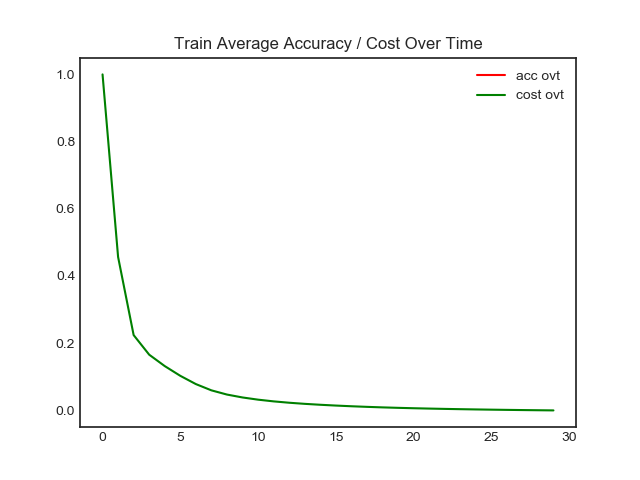
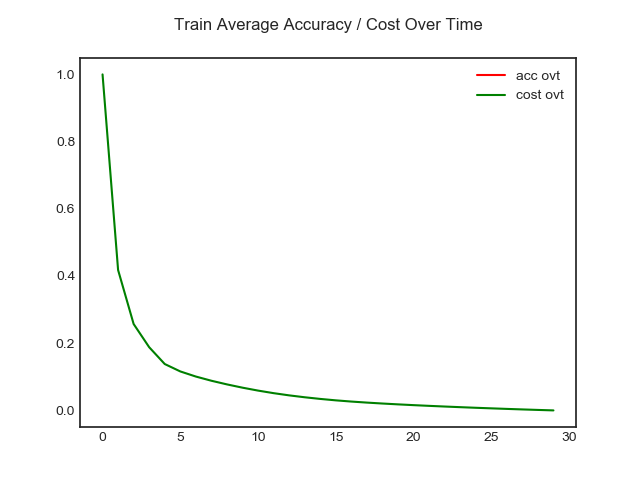
s

diff --git a/NeuralNetwork/Auto_ICA/b_CIFAR10.py b/NeuralNetwork/Auto_ICA/b_CIFAR10.py
@@ -41,6 +41,7 @@ def d_tf_iden(x): return 1.0
 def tf_softmax(x): return tf.nn.softmax(x)
 # ======= Activation Function  ==========
 
+# ====== miscellaneous =====
 # code from: https://github.com/tensorflow/tensorflow/issues/8246
 def tf_repeat(tensor, repeats):
     """
@@ -58,6 +59,13 @@ def tf_repeat(tensor, repeats):
     tiled_tensor = tf.tile(expanded_tensor, multiples = multiples)
     repeated_tesnor = tf.reshape(tiled_tensor, tf.shape(tensor) * repeats)
     return repeated_tesnor
+
+def unpickle(file):
+    import pickle
+    with open(file, 'rb') as fo:
+        dict = pickle.load(fo, encoding='bytes')
+    return dict
+# ====== miscellaneous =====
 
 # ================= VIZ =================
 # Def: Simple funciton to view the histogram of weights
@@ -222,23 +230,49 @@ class FNN():
 
         return grad_pass,update_w   
 # ================= LAYER CLASSES =================
-
 # data
-mnist = input_data.read_data_sets('../../Dataset/MNIST/', one_hot=True)
-train, test = tf.keras.datasets.mnist.load_data()
-x_data, train_label, y_data, test_label = mnist.train.images, mnist.train.labels, mnist.test.images, mnist.test.labels
-x_data = x_data.reshape(-1, 28, 28, 1)  # 28x28x1 input img
-y_data = y_data.reshape(-1, 28, 28, 1)  # 28x28x1 input img
-train_batch = np.zeros((55000,28,28,1))
-test_batch = np.zeros((10000,28,28,1))
-for x in range(len(x_data)):
-    train_batch[x,:,:,:] = np.expand_dims(imresize(x_data[x,:,:,0],(28,28)),axis=3)
-for x in range(len(y_data)):
-    test_batch[x,:,:,:] = np.expand_dims(imresize(y_data[x,:,:,0],(28,28)),axis=3)
+PathDicom = "../../Dataset/cifar-10-batches-py/"
+lstFilesDCM = []  # create an empty list
+for dirName, subdirList, fileList in os.walk(PathDicom):
+    for filename in fileList:
+        if not ".html" in filename.lower() and not  ".meta" in filename.lower():  # check whether the file's DICOM
+            lstFilesDCM.append(os.path.join(dirName,filename))
 
-# simple normalize
+# Read the data traind and Test
+batch0 = unpickle(lstFilesDCM[0])
+batch1 = unpickle(lstFilesDCM[1])
+batch2 = unpickle(lstFilesDCM[2])
+batch3 = unpickle(lstFilesDCM[3])
+batch4 = unpickle(lstFilesDCM[4])
+
+onehot_encoder = OneHotEncoder(sparse=True)
+train_batch = np.vstack((batch0[b'data'],batch1[b'data'],batch2[b'data'],batch3[b'data'],batch4[b'data']))
+train_label = np.expand_dims(np.hstack((batch0[b'labels'],batch1[b'labels'],batch2[b'labels'],batch3[b'labels'],batch4[b'labels'])).T,axis=1).astype(np.float32)
+train_label = onehot_encoder.fit_transform(train_label).toarray().astype(np.float32)
+
+test_batch = unpickle(lstFilesDCM[5])[b'data']
+test_label = np.expand_dims(np.array(unpickle(lstFilesDCM[5])[b'labels']),axis=0).T.astype(np.float32)
+test_label = onehot_encoder.fit_transform(test_label).toarray().astype(np.float32)
+
+# reshape data
+train_batch = np.reshape(train_batch,(len(train_batch),3,32,32))
+test_batch = np.reshape(test_batch,(len(test_batch),3,32,32))
+
+# rotate data
+train_batch = np.rot90(np.rot90(train_batch,1,axes=(1,3)),3,axes=(1,2)).astype(np.float32)
+test_batch = np.rot90(np.rot90(test_batch,1,axes=(1,3)),3,axes=(1,2)).astype(np.float32)
 train_batch = train_batch/255.0
 test_batch = test_batch/255.0
+
+train_batch_temp = np.zeros((train_batch.shape[0],48,48,3))
+test_batch_temp = np.zeros((test_batch.shape[0],48,48,3))
+for x in range(len(train_batch)):
+    train_batch_temp[x,:,:,:] = imresize(train_batch[x,:,:,:],(48,48))
+for x in range(len(test_batch)):
+    test_batch_temp[x,:,:,:] = imresize(test_batch[x,:,:,:],(48,48))
+
+train_batch = train_batch_temp
+test_batch = test_batch_temp
 
 # print out the data shape
 print(train_batch.shape)
@@ -250,26 +284,27 @@ print(test_label.shape)
 print(test_batch.max(),test_batch.min())
 
 # class
-el1 = CNN(3,1,32)
-el2 = CNN(3,32,64)
-el3 = CNN(3,64,128)
+el1 = CNN(3,3,64)
+el2 = CNN(3,64,128)
+el3 = CNN(3,128,256)
 
-dl1 = CNN_Trans(3,64,128)
-dl2 = CNN_Trans(3,32,64)
-dl3 = CNN_Trans(3,16,32)
+dl1 = CNN_Trans(3,128,256)
+dl2 = CNN_Trans(3,64,128)
+dl3 = CNN_Trans(3,32,64)
 
-fl0 = CNN(3,16,1,act=tf_sigmoid,d_act=d_tf_sigmoid)
+fl0 = CNN(3,32,3,act=tf_sigmoid,d_act=d_tf_sigmoid)
+vgg16_loss = tf.keras.applications.VGG16(weights='imagenet', include_top=False,input_shape=(48,48,3))
 
 # hyper
 num_epoch = 30
-learning_rate = 0.00001
+learning_rate = 0.000008
 batch_size = 100
 print_size = 2
 
 beta1,beta2,adam_e = 0.9,0.999,1e-8
 
 # graph
-x = tf.placeholder(shape=[None,28,28,1],dtype=tf.float32)
+x = tf.placeholder(shape=[batch_size,48,48,3],dtype=tf.float32)
 
 elayer1 = el1.feedforward(x)
 elayer2_input = tf.nn.avg_pool(elayer1,strides=[1,2,2,1],ksize=[1,2,2,1],padding='VALID')
@@ -280,11 +315,15 @@ elayer3 = el3.feedforward(elayer3_input)
 dlayer1 = dl1.feedforward(elayer3,stride=2)
 dlayer2 = dl2.feedforward(dlayer1,stride=1)
 dlayer3 = dl3.feedforward(dlayer2,stride=2)
-
 dlayer4 = fl0.feedforward(dlayer3)
 
-cost = tf.reduce_mean(tf.square(dlayer4-x))
-auto_train = tf.train.AdamOptimizer(learning_rate=learning_rate).minimize(cost)
+targets_dict = dict([(layer.name, layer.output) for layer in vgg16_loss.layers])
+print(targets_dict)
+
+
+sys.exit()
+total_cost = cost0 + cost1 +  cost2 + cost3  
+auto_train = tf.train.AdamOptimizer(learning_rate=learning_rate).minimize(total_cost)
 
 # sess
 with tf.Session() as sess:
@@ -307,7 +346,7 @@ with tf.Session() as sess:
         # train for batch
         for batch_size_index in range(0,len(train_batch),batch_size):
             current_batch = train_batch[batch_size_index:batch_size_index+batch_size]
-            sess_result = sess.run([cost,auto_train],feed_dict={x:current_batch})
+            sess_result = sess.run([total_cost,auto_train],feed_dict={x:current_batch})
             print("Current Iter : ",iter ," current batch: ",batch_size_index, ' Current cost: ', sess_result[0],end='\r')
             train_cota = train_cota + sess_result[0]
 

diff --git a/NeuralNetwork/Auto_ICA/a_MNIST.py b/NeuralNetwork/Auto_ICA/a_MNIST.py
@@ -320,9 +320,8 @@ with tf.Session() as sess:
             sess_results = sess_results[0][0,:,:,:]
             test_example = test_example[0,:,:,:]
 
-            plt.figure(1, figsize=(12,6))
-            plt.subplots_adjust(top=0.85)
-            plt.suptitle('Original Image (left) Generated Image (right) Iter: ' + str(iter))
+            plt.figure(1, figsize=(18,9))
+            plt.suptitle('Original Image (left) Generated Image (right) Iter: ' + str(iter),fontsize=20)
 
             plt.subplot(121)
             plt.axis('off')
@@ -330,7 +329,6 @@ with tf.Session() as sess:
             plt.subplot(122)
             plt.axis('off')
             plt.imshow(np.squeeze(sess_results).astype(np.float32),cmap='gray')
-            plt.tight_layout()
             plt.savefig('train_change/'+str(iter)+"_train_results.png",bbox_inches='tight')
             plt.close('all')
 
